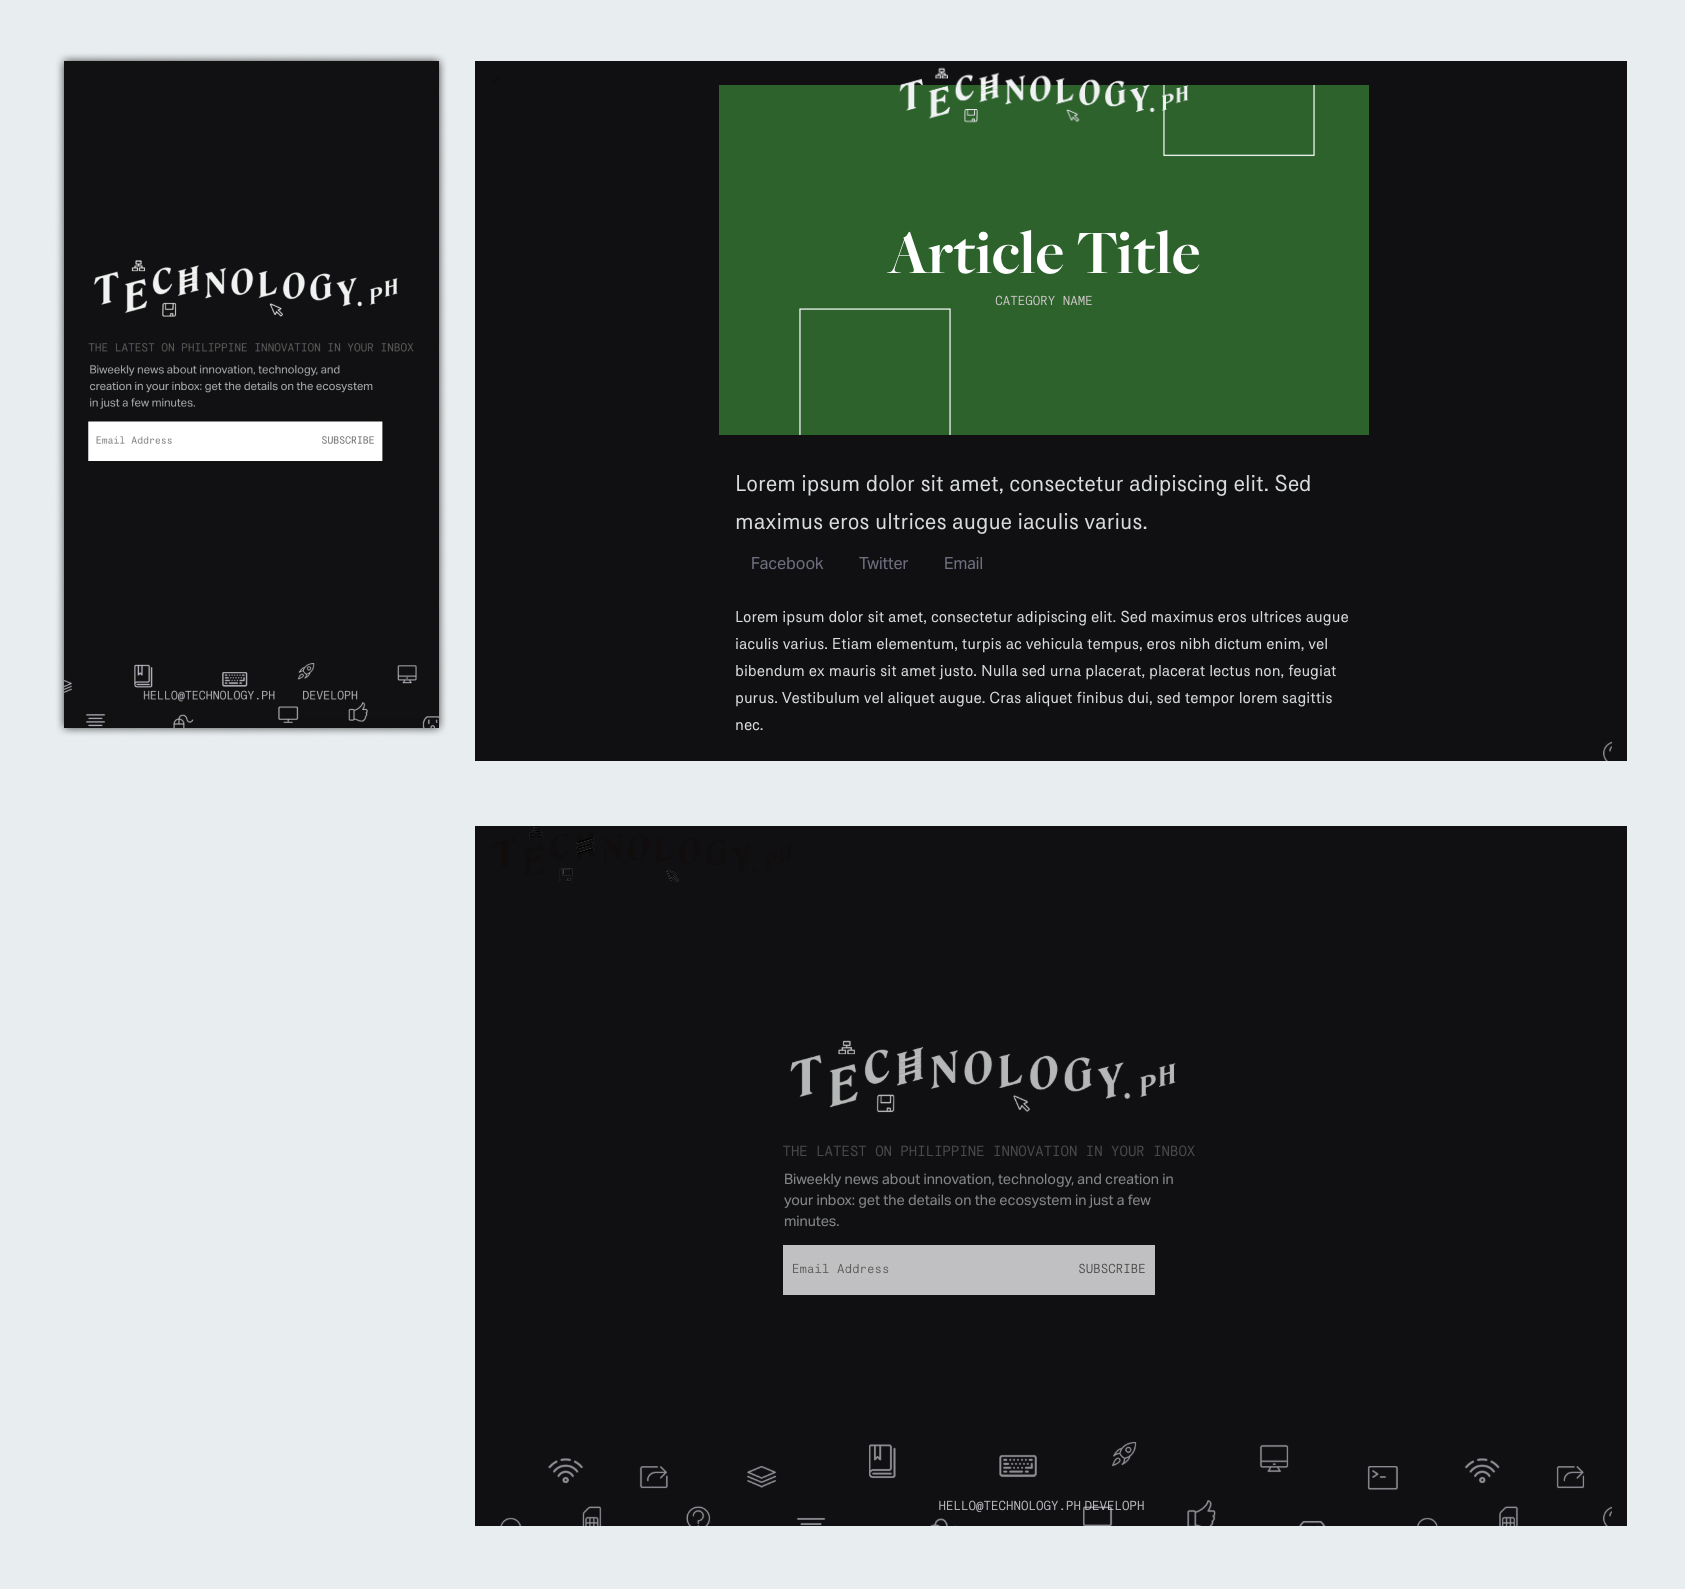
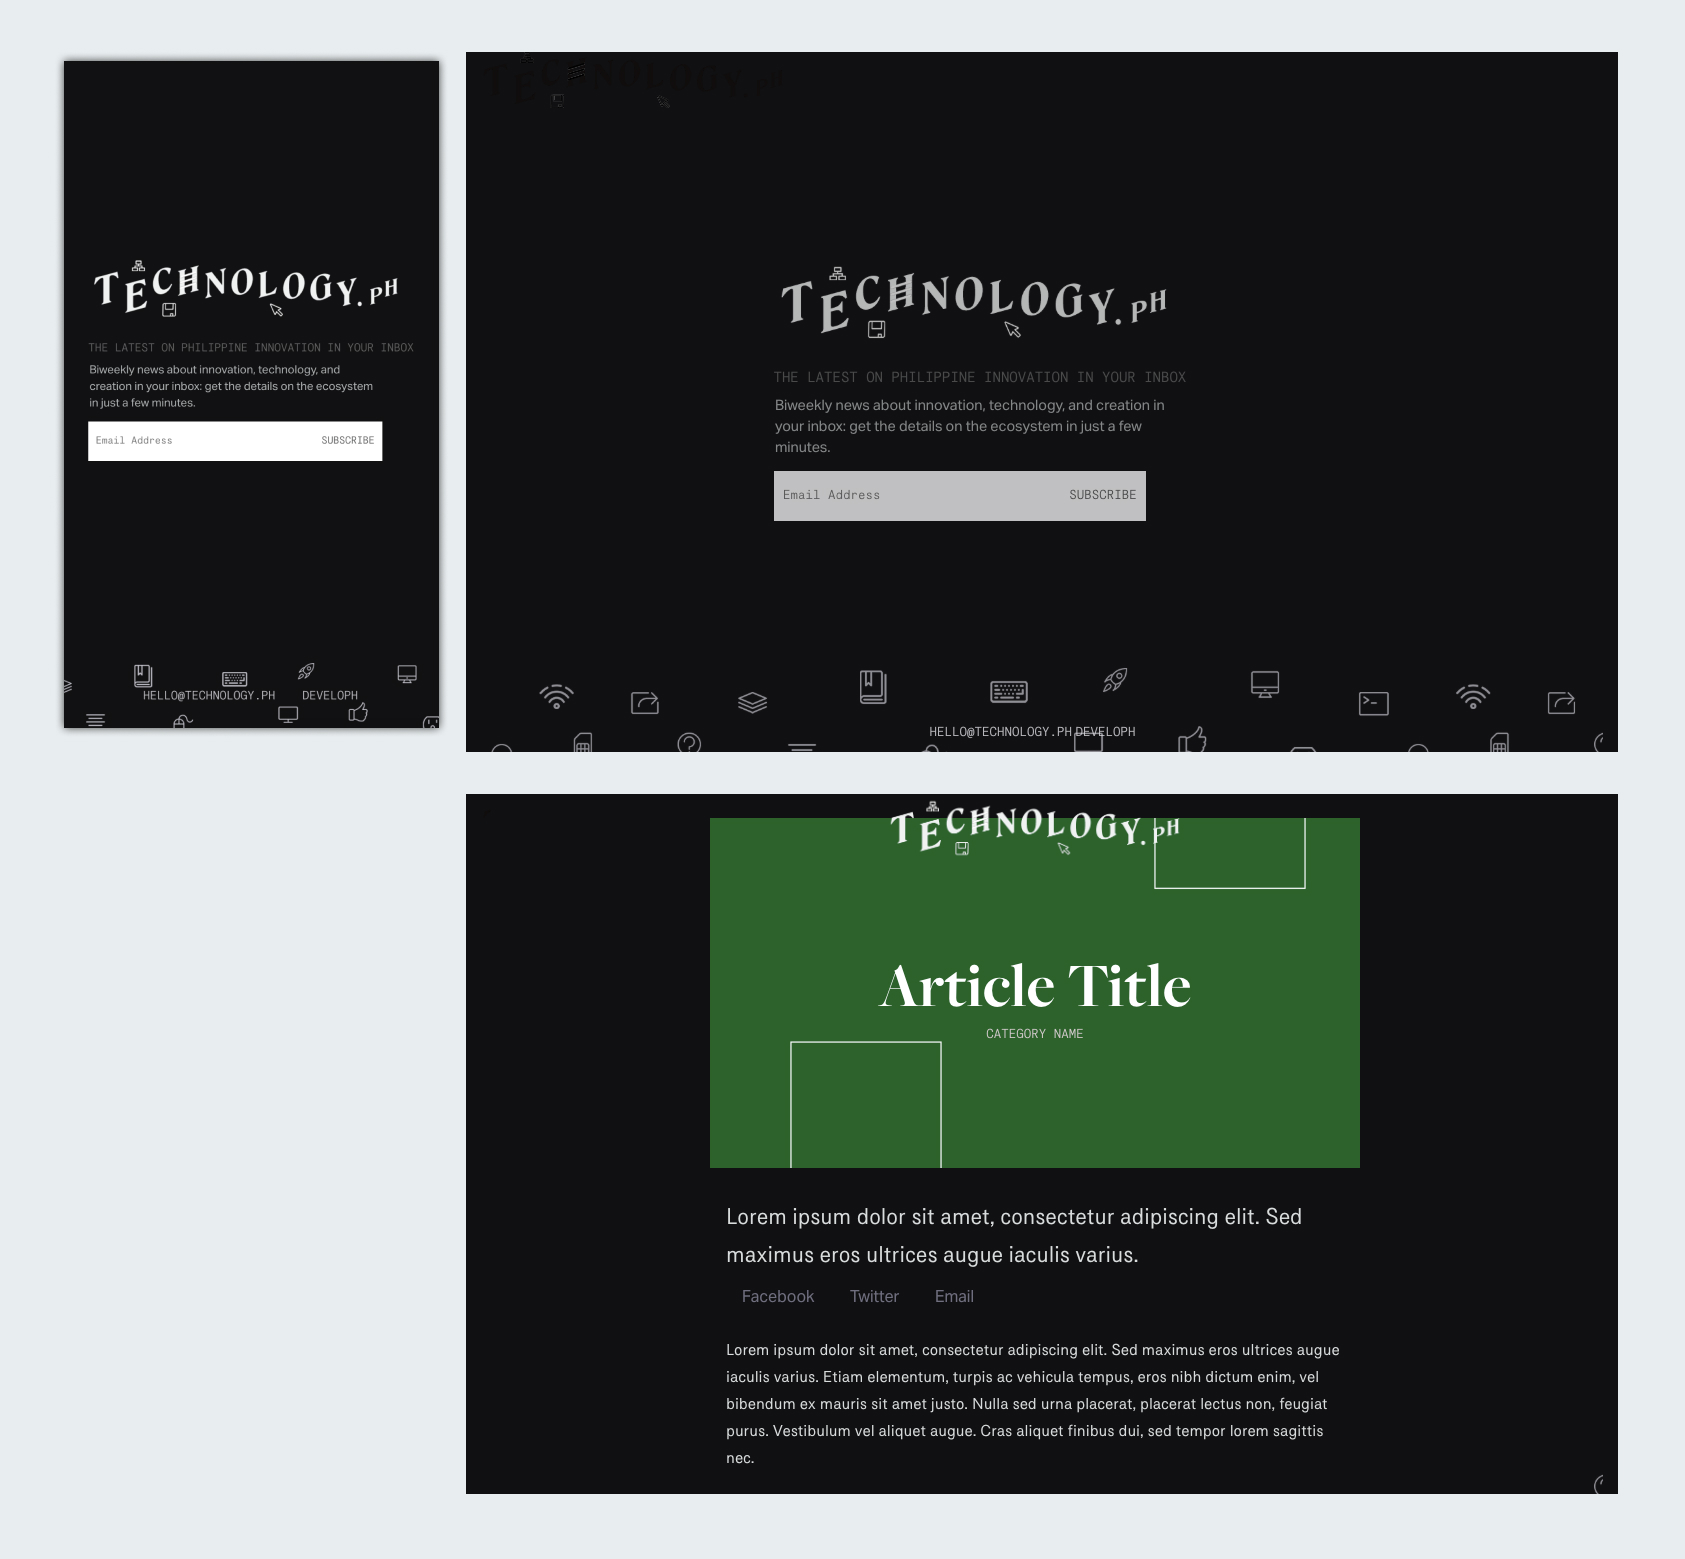
biweekly digest details

diff --git a/public/work/technologyph.html b/public/work/technologyph.html
@@ -108,7 +108,7 @@
                             <span class="summary-add"><strong>Role</strong> Editor and Designer</span>
 
                             
-                            <span class="summary-add"><strong>Visit</strong> Developh is live at <a href="https://developh.org" target="_blank">Developh</a></span>
+                            <span class="summary-add"><strong>Visit</strong> Subscribe to the newsletter at <a href="https://technology.ph" target="_blank">Technology.ph</a></span>
                         </div>
                     </div>
                     
@@ -116,14 +116,17 @@
 
 
                     <h2 id="part-context">Context</h2>
-                    <h1>Technology that bridges, not divides</h1>
-                    <p>Developh exists in the interesting tech space of the Philippines: driven by hope and spiked interest, but with lack of infrastructure for students or involvement of <em>Filipinos</em> in many large companies. Our lives are undeniably intertwined in the consumption of technology, not really the creation of it.</p>
+                    <h1></h1>
+                    <p>In the middle of the rapidly growing Philippine technology ecosystem, there are little publication or news efforts that detail the work of the ecosystem in-depth. I sought to fill in this gap in a digestible format, building Technology.ph to simplify the way people discover the ecosystem&mdash;and making it significantly more engaging to the masses.</p>
                     
+                <h3>Website</h3><br>
                     <div class="image-container">
                     <img loading="lazy" class="image-full board" src="../assets/portfolio/technologyph/showcase.jpg">
                 </div>
                     
-                    <p>From our start as a casual development organization in a high school in the Philippines to our evolution as a remote   international nonprofit servicing tens of thousands of students across our programming, here are some of our workings and learnings across design. Currently, we have a 7-person design team (including me) producing initiatives and materials for over 4 chapters, 50+ student communities, and tens of thousands of students.<br>For nearly four years have we been working at breaking apart and reinventing tech's systems at Developh, and communicating these efforts and building on it. Here's a snippet of what we do.</p>
+                <h3>Newsletter</h3><br>
+                    
+                    
                     <br>
 
                     
